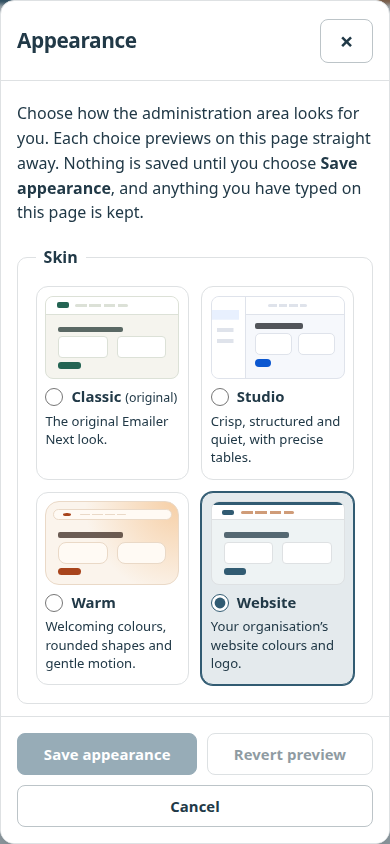
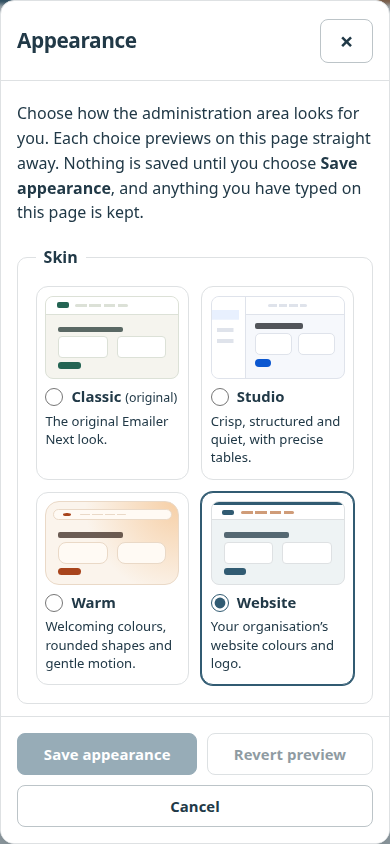
Document reviewed skins with real Ripe 1.3 installation screenshots

Changed region(s): [[0.4923, 0.5853, 0.9231, 0.8318]]

diff --git a/docs/design/RIPE-APPEARANCE-DESIGN.md b/docs/design/RIPE-APPEARANCE-DESIGN.md
@@ -1,6 +1,6 @@
 # Ripe administration appearance: design record
 
-Owner: design (Claude, delegated by Anton). Actual local Claude Code2.1.284 session model: `claude-opus-5-5`, verified from CLI initialization; initial implementation and a second pass reviewing actual Codex browser screenshots completed on19October2026. Backend, security, integration and
+Owner: design (Claude, delegated by Anton). Actual local Claude Code 2.1.284 session model: `claude-opus-5-5`, verified from CLI initialization; initial implementation and a second pass reviewing actual Codex browser screenshots completed on 19 October 2026. Backend, security, integration and
 release: Codex. Branch `codex/ripe-dashboard-skins`, base `9887fd0`.
 
 ## Scope
@@ -68,20 +68,23 @@ sections rise once on arrival (380ms, stagger capped at 160ms; never blocks
 input), alerts and feedback rise into view, cards lift slightly on hover, and
 nav items give press feedback. Nothing loops.
 
-**Website**: derives everything from six validated tokens. Links mix primary
-toward text for contrast; muted text and lines mix text into surface; status
-colours mix fixed hues toward text so they stay distinct on light *and* dark
-sites. The header carries a 4px primary→accent strip; the logo (when the
+**Website**: derives its presentation from six validated tokens. Links use
+primary only when it meets text contrast on both saved surfaces, otherwise
+they use the validated text colour. Muted text keeps that same readable ink.
+Text-bearing surfaces remain untinted, including hover and fieldset surfaces.
+Status foregrounds prefer bounded semantic hues with at least 4.5:1 contrast
+on both surfaces and fall back to validated ink at difficult midtone palettes.
+Every status retains its explicit label; meaning never depends on colour. The header carries a 4px primary→accent strip; the logo (when the
 backend provides a local copy) replaces the "en" mark at up to 8rem × 36px with
 `object-fit: contain`. Headings use the site font class (sans or serif); body
 text stays system sans for data density. The focus ring uses the text colour
 so it always contrasts with the background. No pixel-perfect promise is made
 in the UI copy.
 
-Status colours in all modern skins: success (green), info (blue), warning
-(amber), danger (red), each AA on its tint. Pills always carry text, so state
-is never colour-only. `failed` is red and `paused` amber (Classic shows both
-amber).
+Studio and Warm use AA semantic foreground/tint pairs: success (green),
+info (blue), warning (amber) and danger (red). Website uses the contrast-checked
+foregrounds above on its saved surface. Pills always carry text, so state is
+never colour-only. Classic keeps its original status presentation.
 
 ## Appearance control
 
@@ -110,9 +113,11 @@ amber).
   to every user. Editing requires `ROLE_ADMINISTRATOR` (Twig `is_granted`; the
   backend enforces it again).
 * URL field is blank with an `https://www.example.org` placeholder and copy
-  telling the administrator not to use the dashboard address. Nothing is
-  fetched until the explicit **Fetch from website and save for everyone**
-  button is pressed.
+  telling the administrator to confirm the organisation website. A separate
+  editable proposal may remove a common mailer/email/newsletter prefix from
+  the dashboard hostname; it is never fetched automatically. Saved branding
+  always takes priority. Nothing is fetched until the explicit **Refresh from
+  website and save for everyone** button is pressed.
 * **Manual corrections**: five colour pickers with hex readouts plus a heading
   font choice. These preview on the page only, with a live WCAG readability
   check. They become shared only through **Save corrected branding for
